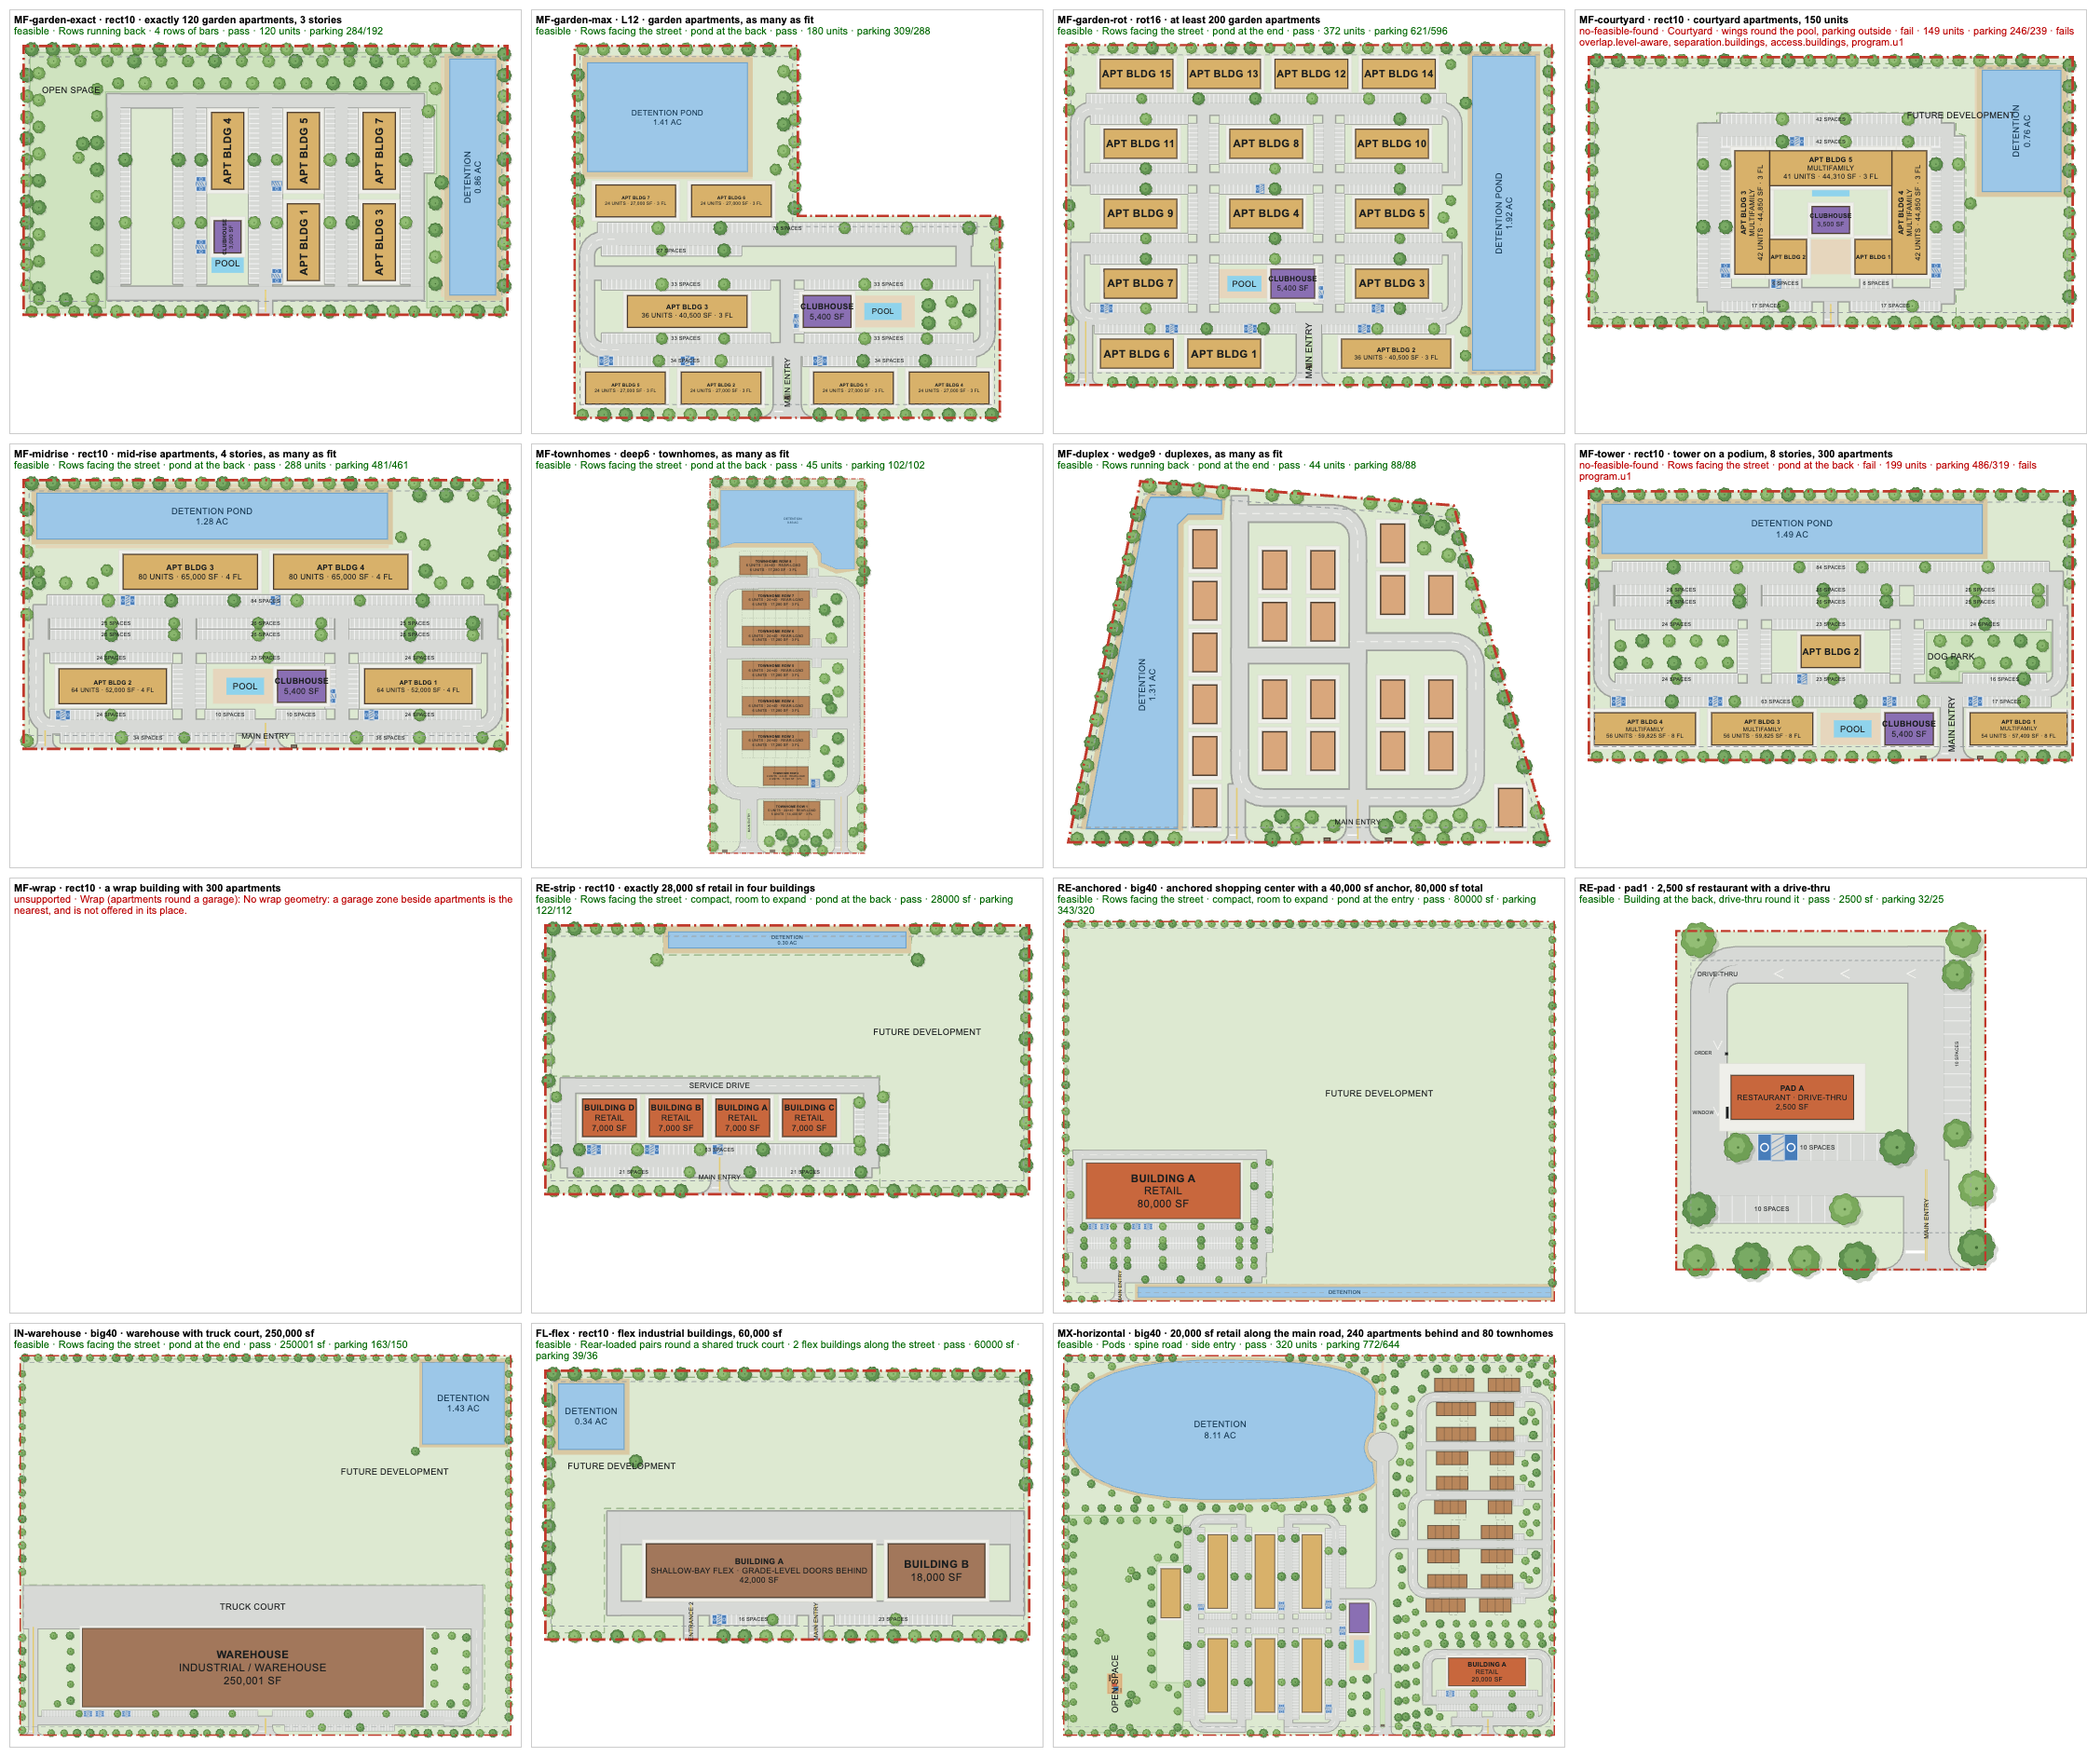
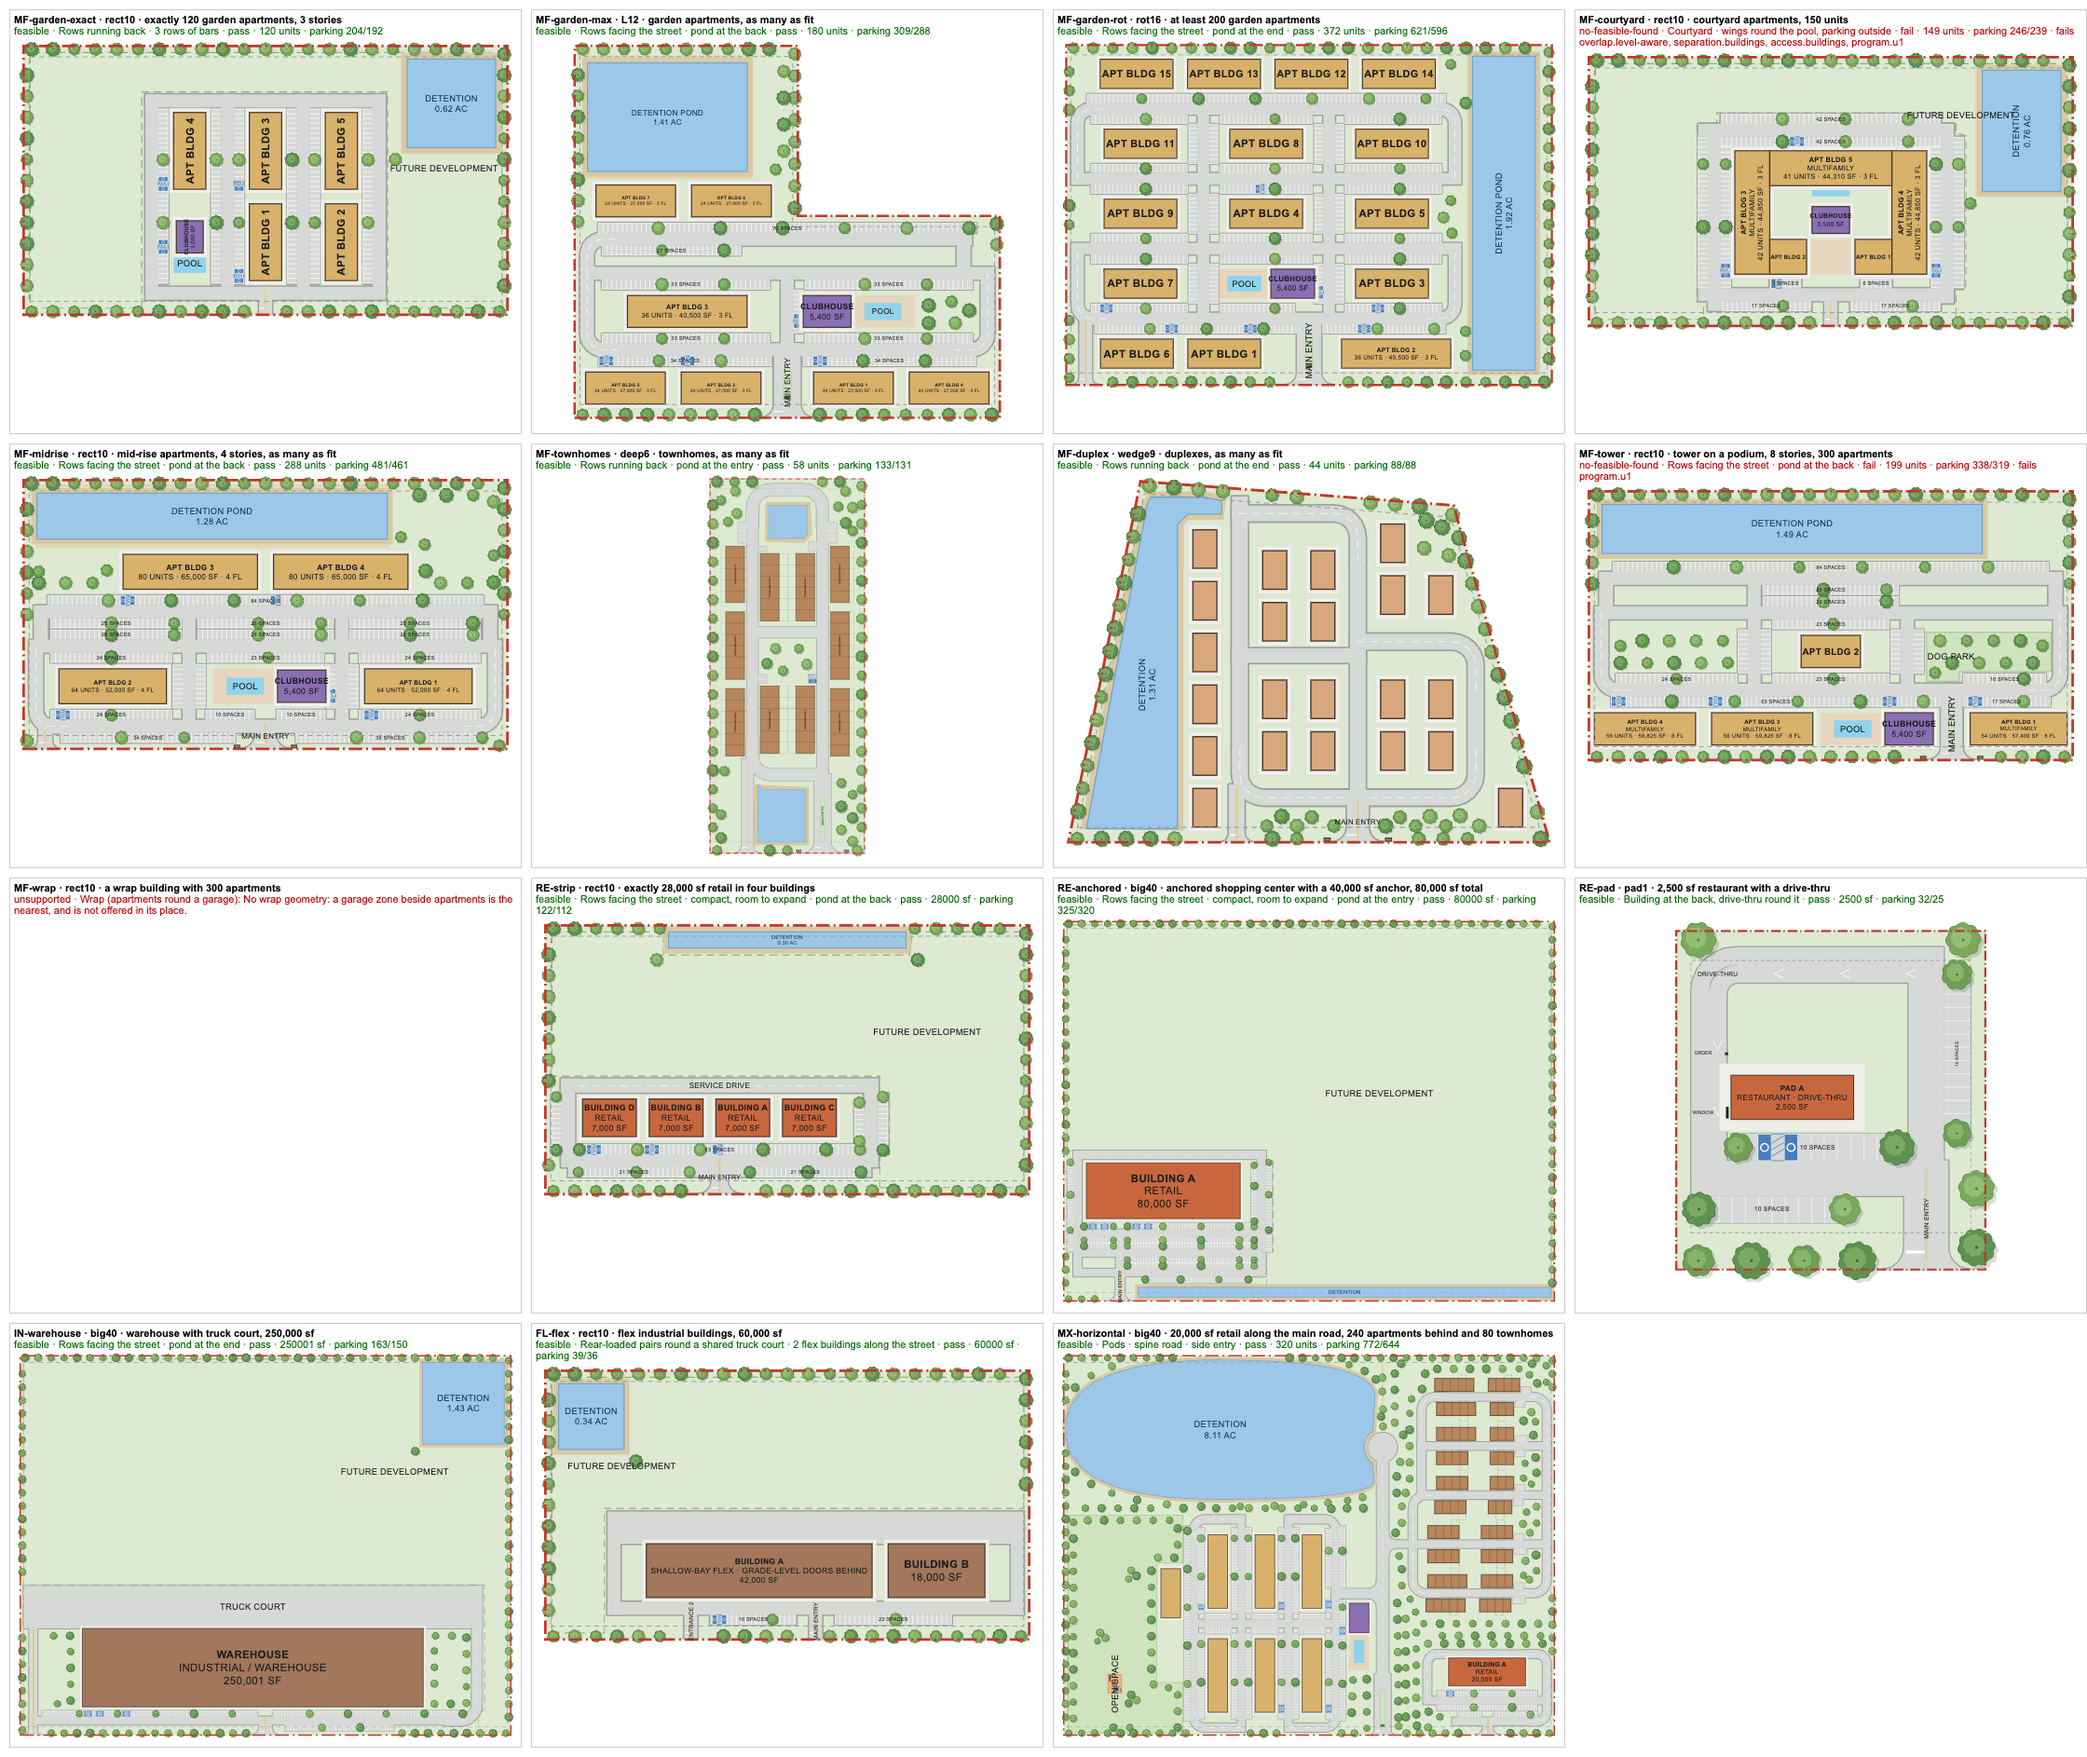
Exact counts without empty bays; a second way in found; options that differ
- Exact / capped apartment counts: the engine is asked for just that first (nothing to
  trim, no empty parking left behind); the overshoot-and-trim only as a fallback. Exact
  120 garden: parking 204 of 192 (was 284), paving 92,000 sf (was 121,500)
- pruneSurplus: parking rows no building uses, and the dead-end drives to them, come out
  while the parking left still meets what's required
- addSecondAccess: a missing second way in is looked for with the pond set aside and the
  pond cut back from the new drive (Hockley: all three options now have two ways in)
- Changes kept only when no hard check gets worse (keepIfNoWorse)
- Ranking: more is better up to a cap; options with the same numbers as a kept one, or
  under 60% of the best yield, are left out rather than padding the list

Claude-Session: https://claude.ai/code/session_01LChLq1saTs9DVWKJTcfgi8

diff --git a/docs/bench/layout-bench-v2.md b/docs/bench/layout-bench-v2.md
@@ -1,16 +1,16 @@
 | Case | Family | Outcome | Top option | Fails | Unknown | Replay | Before (same validator) |
 |---|---|---|---|---|---|---|---|
-| MF-garden-exact | multifamily | feasible | pass · 120 units · parking 284/192 | — | 4 | identical | n/a |
+| MF-garden-exact | multifamily | feasible | pass · 120 units · parking 204/192 | — | 4 | identical | n/a |
 | MF-garden-max | multifamily | feasible | pass · 180 units · parking 309/288 | — | 4 | identical | n/a |
 | MF-garden-rot | multifamily | feasible | pass · 372 units · parking 621/596 | — | 4 | identical | n/a |
 | MF-courtyard | multifamily | no-feasible-found | fail · 149 units · parking 246/239 | overlap.level-aware, separation.buildings, access.buildings, program.u1 | 4 | identical | n/a |
 | MF-midrise | multifamily | feasible | pass · 288 units · parking 481/461 | — | 4 | identical | n/a |
-| MF-townhomes | multifamily | feasible | pass · 45 units · parking 102/102 | — | 4 | identical | n/a |
+| MF-townhomes | multifamily | feasible | pass · 58 units · parking 133/131 | — | 4 | identical | n/a |
 | MF-duplex | multifamily | feasible | pass · 44 units · parking 88/88 | — | 4 | identical | n/a |
-| MF-tower | multifamily | no-feasible-found | fail · 199 units · parking 486/319 | program.u1 | 4 | identical | n/a |
+| MF-tower | multifamily | no-feasible-found | fail · 199 units · parking 338/319 | program.u1 | 4 | identical | n/a |
 | MF-wrap | multifamily | unsupported | Wrap (apartments round a garage): No wrap geometry: a garage zone besi | — | — | identical | n/a |
 | RE-strip | retail | feasible | pass · 28,000 sf · parking 122/112 | — | 4 | identical | n/a |
-| RE-anchored | retail | feasible | pass · 80,000 sf · parking 343/320 | — | 4 | identical | n/a |
+| RE-anchored | retail | feasible | pass · 80,000 sf · parking 325/320 | — | 4 | identical | n/a |
 | RE-pad | retail | feasible | pass · 2,500 sf · parking 32/25 | — | 4 | identical | n/a |
 | IN-warehouse | industrial | feasible | pass · 250,001 sf · parking 163/150 | — | 4 | identical | n/a |
 | FL-flex | flex | feasible | pass · 60,000 sf · parking 39/36 | — | 4 | identical | n/a |
